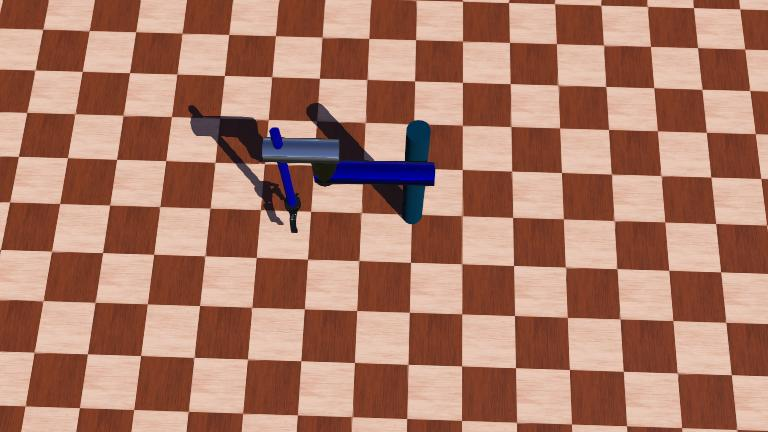
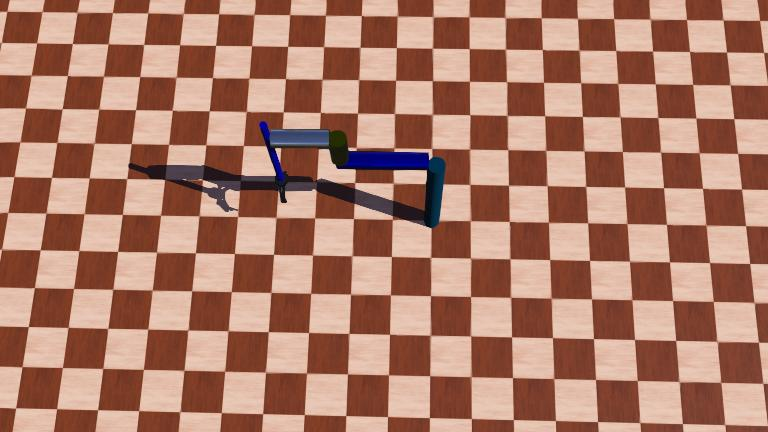
hoeken van punt werkt

diff --git a/Virtual Twin Webots/controllers/my_robot_controller/my_robot_controller.py b/Virtual Twin Webots/controllers/my_robot_controller/my_robot_controller.py
@@ -1,49 +1,95 @@
 from controller import Robot, Motor
 import math
 
-def cartesian_to_servo_angles(x, y, arm1_length, arm2_length):
-    # Calculate angle between first arm and horizontal (x-axis)
-    theta1 = math.atan2(y, x)
-    
-    # Calculate distance from base to end-effector projection on xy plane
-    distance_xy = math.sqrt(x**2 + y**2)
-    
-    # Calculate angle between first arm and line connecting base to end-effector in xy plane
-    alpha = math.acos((arm1_length**2 + distance_xy**2 - arm2_length**2) / (2 * arm1_length * distance_xy))
-    
-    # Calculate angle between second arm and line connecting the two arms
-    beta = math.acos((arm1_length**2 + arm2_length**2 - distance_xy**2) / (2 * arm1_length * arm2_length))
-    
-    # Adjust angles if necessary (depends on the orientation of your robot)
-    # For example, if your zero angles are not aligned with the x-axis, you'll need to add/subtract offsets.
-    
-    return theta1, alpha, beta
 
+def calculate_distance_and_angle(x, y):
+    # Calculate distance from origin to point (x, y)
+    distance = math.sqrt(x**2 + y**2)
+    
+    # Calculate angle of the line from origin to point (x, y) with respect to x-axis
+    angle = math.atan2(y, x)
+    
+    return distance, math.degrees(angle)
+
+def calculate_triangle_angles(distance, L1, L2):
+    if not distance >= L1 + L2:
+        # Calculate angle theta1 (angle opposite to side L1)
+        cos_theta1 = (L2**2 + distance**2 - L1**2) / (2 * L2 * distance)
+        theta1 = math.acos(cos_theta1)
+    
+        # Calculate angle theta2 (angle opposite to side L2)
+        cos_theta2 = (L1**2 + distance**2 - L2**2) / (2 * L1 * distance)
+        theta2 = math.acos(cos_theta2)
+
+        # Calculate angle theta3 (angle opposite to the hypotenuse)
+        theta3 = math.pi - theta1 - theta2
+    else:
+        # If no triangle is formed, assign angles to 0
+        theta1 = 0
+        theta2 = 0
+        theta3 = 0
+
+    return math.degrees(theta1), math.degrees(theta2), math.degrees(theta3)
+
+
+
+def inverse_kinematics(x, y, L1, L2):
+    r = math.sqrt(x**2 + y**2)
+
+    if r > L1 + L2 or r < abs(L1 - L2):
+        raise ValueError("Point is out of reach")
+
+    cos_theta2 = (r**2 - L1**2 - L2**2) / (2 * L1 * L2)
+    theta2 = math.acos(cos_theta2)
+
+    alpha = math.atan2(y, x)
+    beta = math.atan2(L2 * math.sin(theta2), L1 + L2 * math.cos(theta2))
+    theta1 = alpha - beta
+
+    return math.degrees(theta1), math.degrees(theta2)
+    
+def calculate_joint_angles(distance, L1, L2, angle):
+    theta1, theta2, theta3 = calculate_triangle_angles(distance, L1, L2)
+
+    # Convert theta2 and theta3 to radians
+    jointbase = math.radians(theta2 + angle)
+    jointmiddle = math.radians(0-180+theta3)
+    
+    # Check if angle for jointbase is more than 180 degrees
+    if jointbase > math.pi:
+        jointbase -= 2 * math.pi
+    
+    return jointbase, jointmiddle, theta1, theta2, theta3
+    
 # Create a robot instance
 robot = Robot()
 
-# Get the hinge joint
+# Get the hinge joints
 hinge_joint = robot.getDevice("hinge1")
 hinge_joint3 = robot.getDevice("hinge3")
 
 # Set arm lengths
-arm1_length = 500  # Length of the first arm
-arm2_length = 300   # Length of the second arm
+L1 = 500  # Length of the first arm
+L2 = 300  # Length of the second arm
 
 # Example target Cartesian coordinates
-target_x = 0
-target_y = 800
+x = 200
+y = 0
     
+distance, angle = calculate_distance_and_angle(x, y)
+print("Distance from center in straight line:", distance)
+print("Angle from x+:", angle)
 # Convert Cartesian coordinates to servo angles
-theta1, alpha, beta = cartesian_to_servo_angles(target_x, target_y, arm1_length, arm2_length)
-print("Theta1:", theta1, "Alpha:", alpha, "Beta:", beta)
+# theta1, theta2 = inverse_kinematics(x, y, L1, L2)
+jointbase, jointmiddle, theta1, theta2, theta3 = calculate_joint_angles(distance, L1, L2, angle)
+print("targetX:",x,"targetY:",y,"Theta1:", theta1, "Theta2:", theta2, "Theta3:", theta3)
+print("jointbase(rad):",jointbase,"jointmiddle(rad):",jointmiddle)
 
 # Main control loop
 while robot.step(64) != -1:
+    # Update joint angles based on current position or target position if needed
     
-    # Set servo positions
-    hinge_joint3.setPosition(theta1)
-    hinge_joint.setPosition(beta)  # Assuming this is for the second joint
+    # Set servo positions (convert back to radians)
+    hinge_joint.setPosition(jointbase)
+    hinge_joint3.setPosition(jointmiddle)
     # You might need to set additional joints depending on your robot configuration
-    
-    pass
